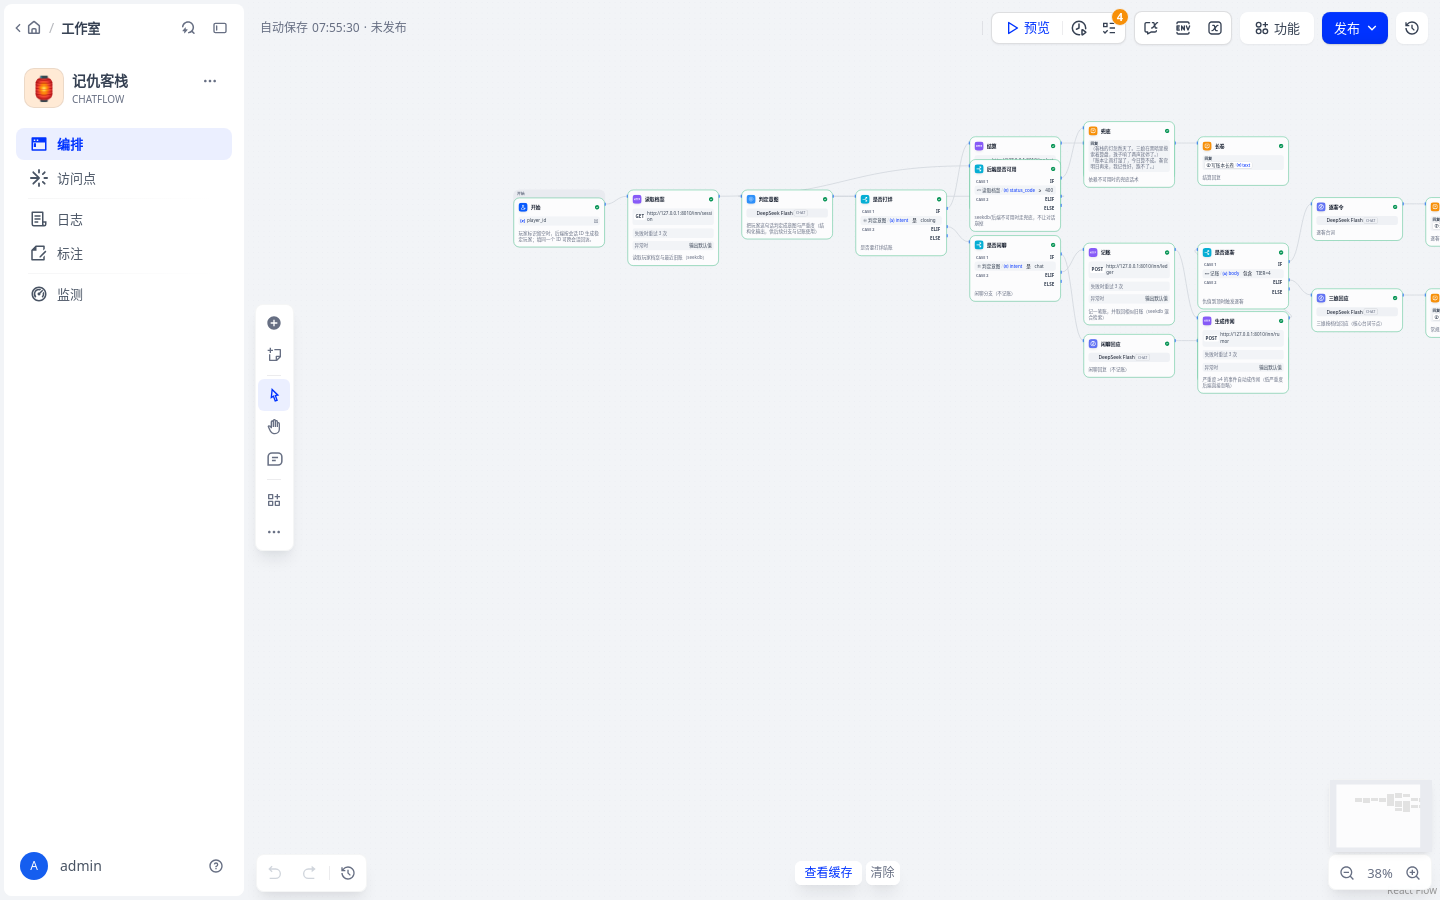
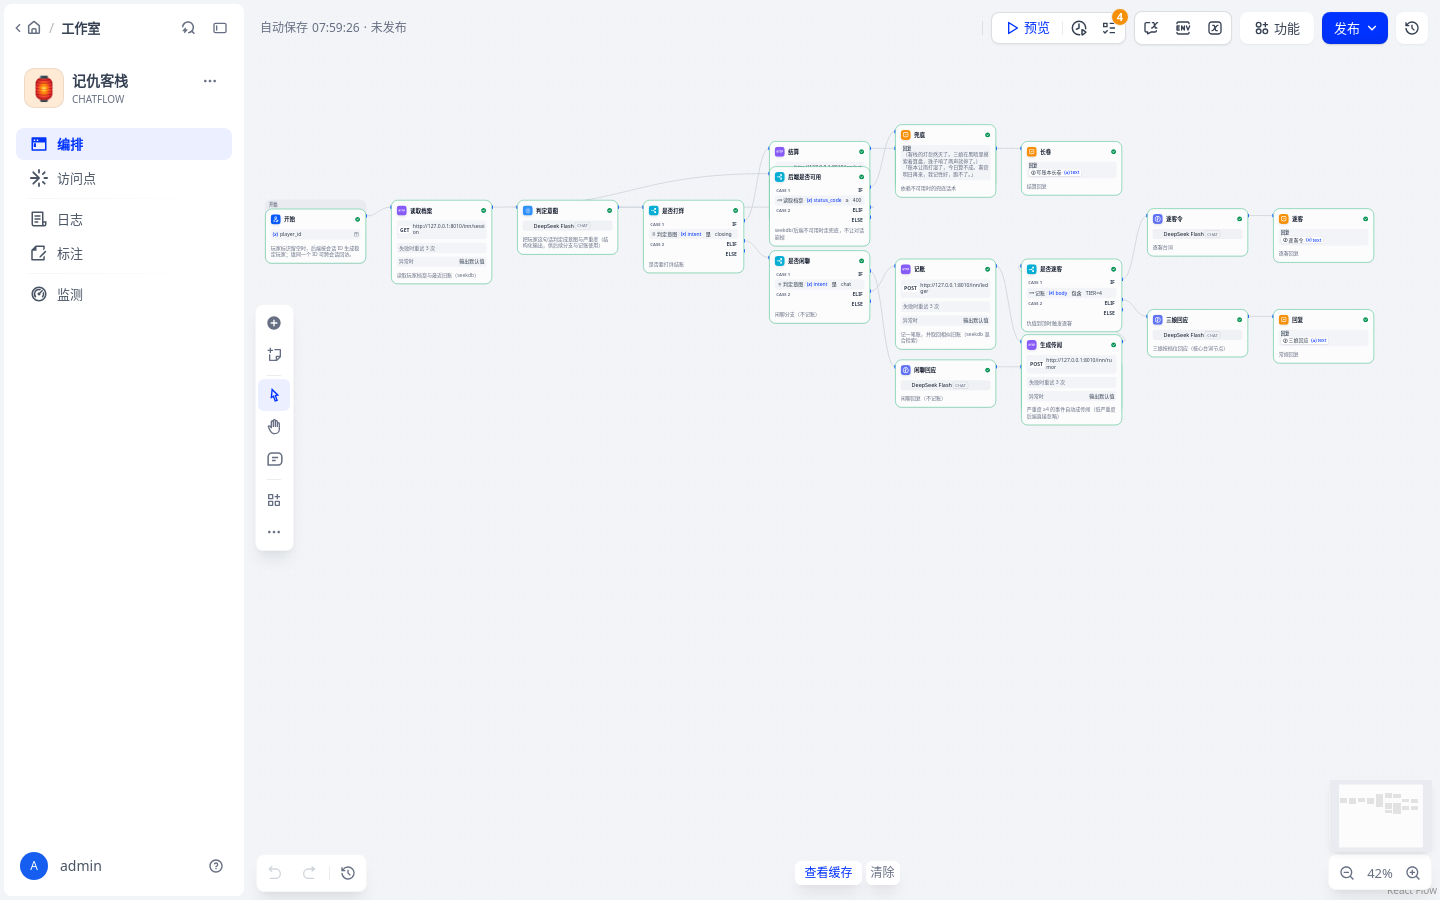
evidence(dify): 画布截图为整图视图（42% 缩放，19 节点全可见）

Changed region(s): [[0.25, 0.1244, 1.0, 0.4667], [0.1875, 0.2178, 0.25, 0.3111], [0.9375, 0.8711, 1.0, 0.9022]]

diff --git a/dify/evidence/README.md b/dify/evidence/README.md
@@ -39,8 +39,9 @@ INN_APP_ID=<app_id> python3 tools/compliance_check.py
 | [screenshots/06-chat-old-grudge.png](screenshots/06-chat-old-grudge.png) | 第二次同类：**翻旧账**（"前天刚往酒坛里兑了半坛水…"） |
 | [screenshots/07-chat-settle.png](screenshots/07-chat-settle.png) | 打烊：《账本长卷》与判词 |
 
-> 说明：画布右上角显示"未发布"是因为导入后 UI 自动重排了节点坐标，使 draft 与发布版本存在差异；
-> 发布版本确实存在（Dify 数据库 `workflows` 表有对应版本记录），预览与 API 运行都基于该应用。
+> 说明：画布左上角显示"未发布"是编辑器自动保存（含节点坐标/视口）造成的 draft 与发布版差异，
+> 不影响运行：发布版本确实存在（Dify 数据库 `workflows` 表有多个版本记录），预览与 API 运行均基于该应用；
+> 若要做完全一致的取证，导入 DSL 后点一次「发布」即可，draft 与 published 哈希相同。
 
 ## 关于截图/录屏
 
